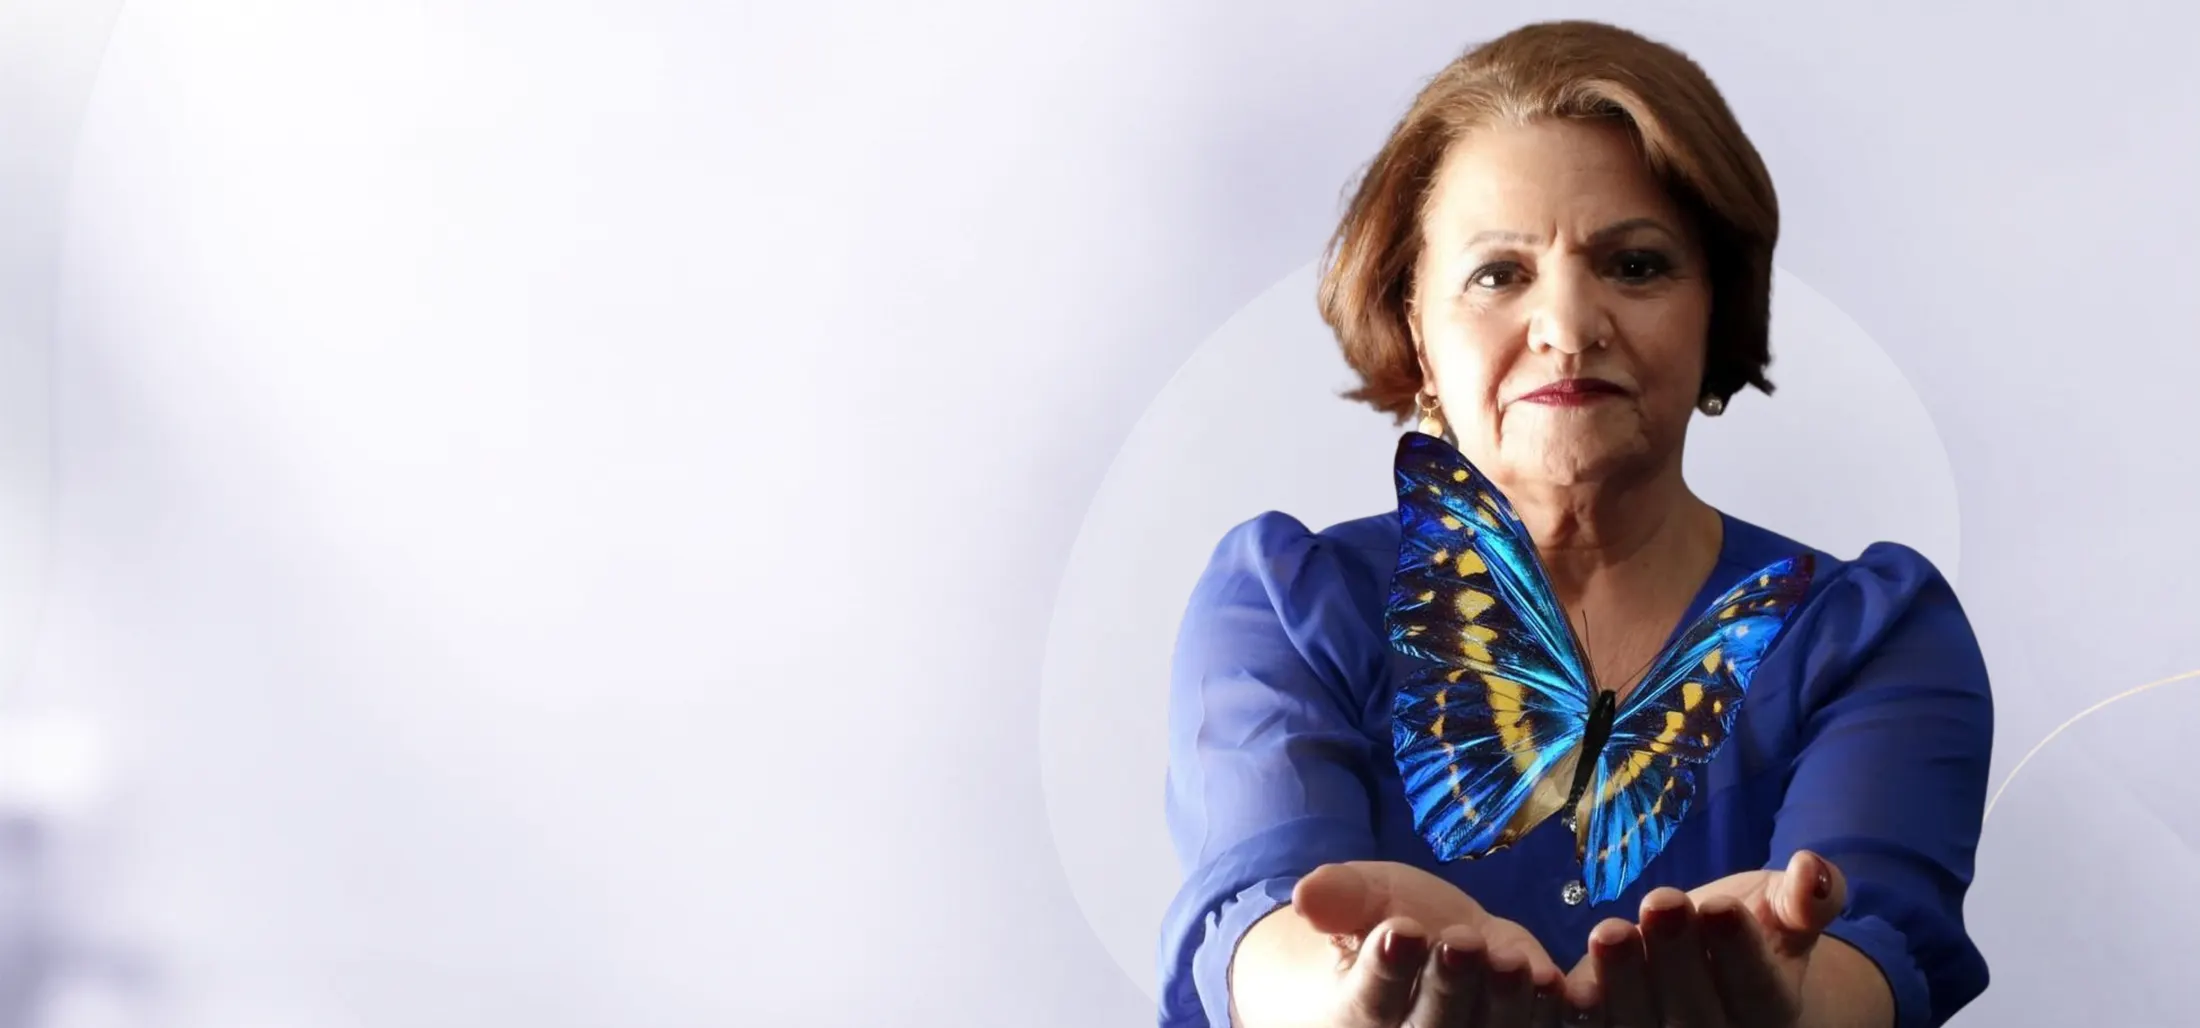
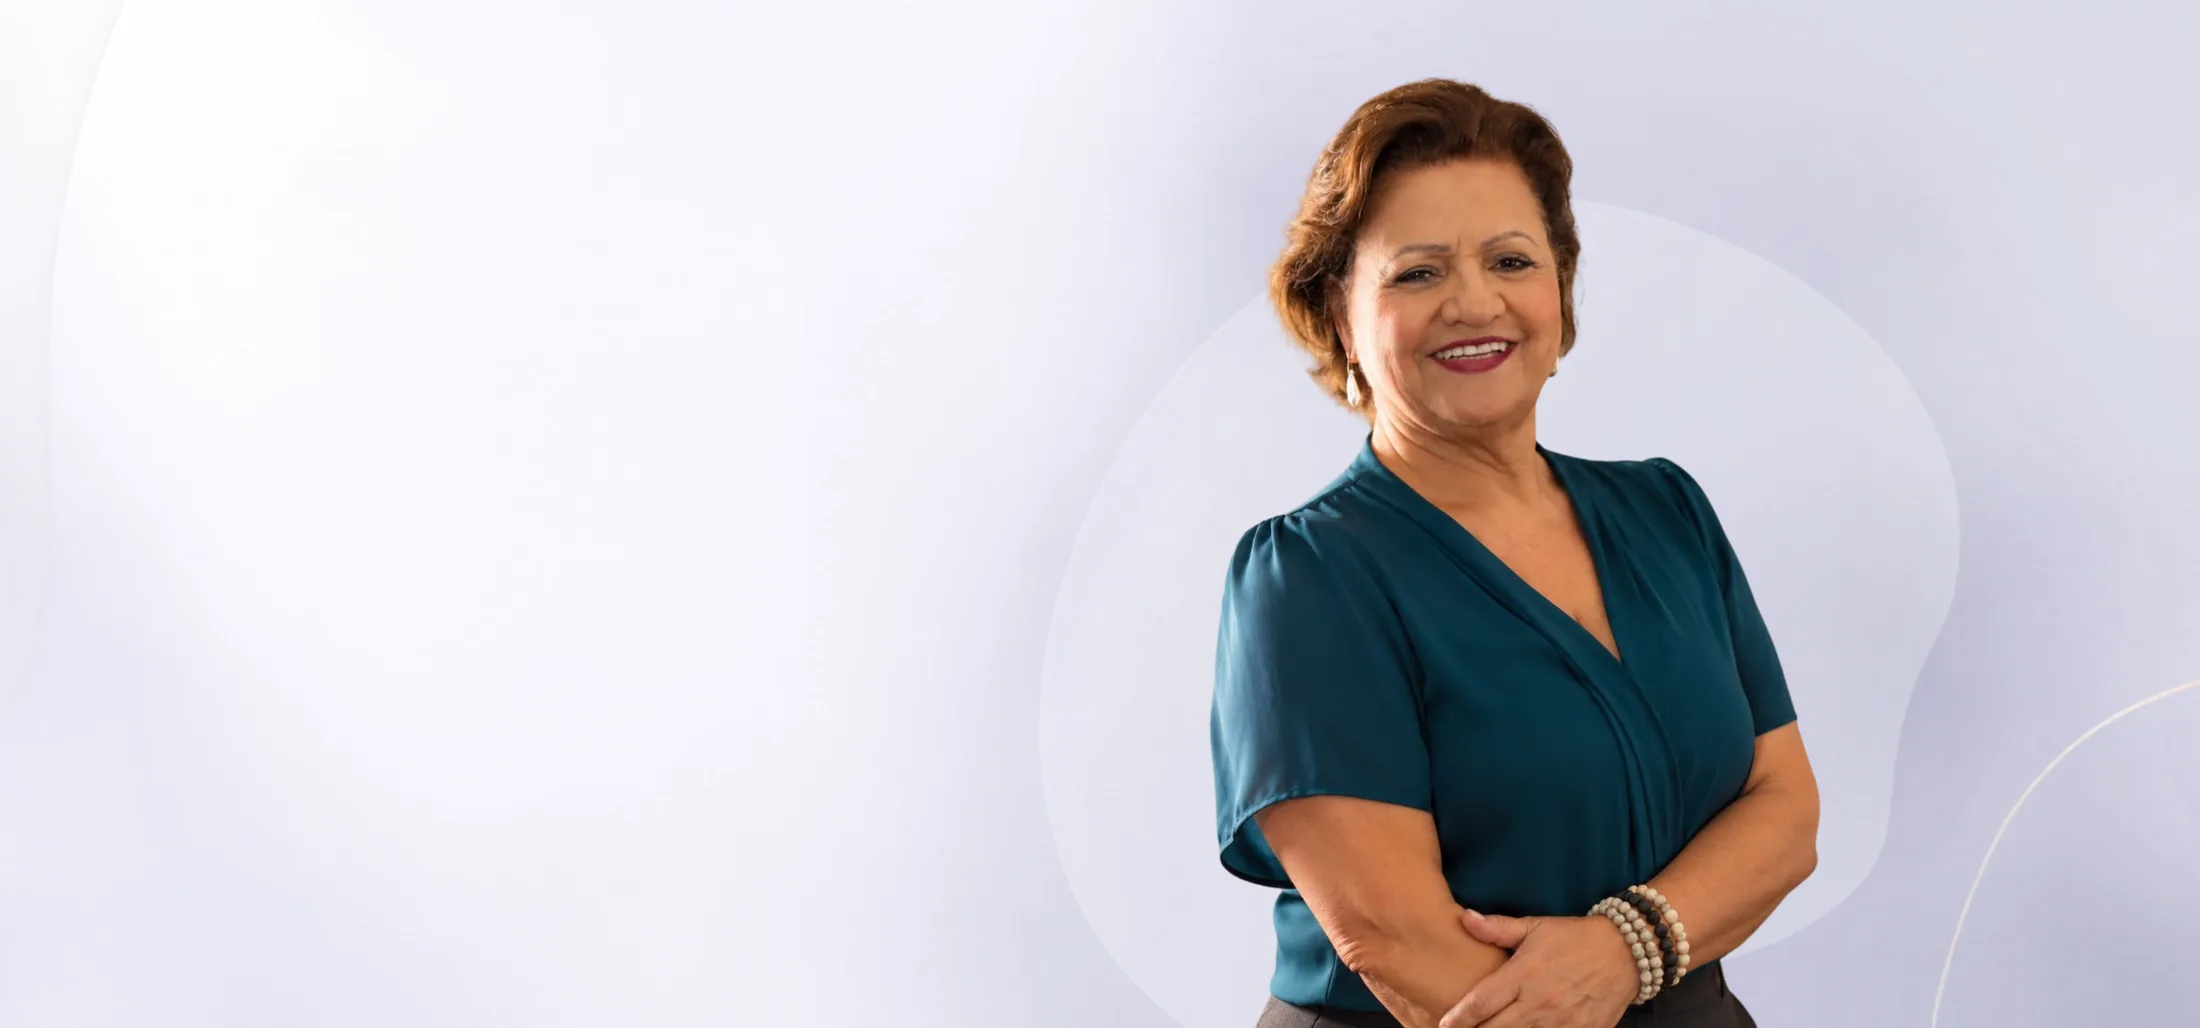
Atualiza foto da hero da Sandra (blusa verde-petróleo)
Troca as fotos antigas (blusa branca) pelas novas que ela mandou.
Aproveitei pra reverter a regressão de performance: os arquivos
anteriores eram PNG cru (5MB + 1MB) direto no HTML — voltei a usar
hero-bg-desktop.webp/hero-bg-mobile.webp devidamente comprimidos
(~37KB + ~33KB).

Changed region(s): [[0.5255, 0.0, 0.9273, 1.0], [0.0, 0.1868, 0.0618, 0.4358], [0.0, 0.7782, 0.0927, 1.0]]

diff --git a/index.html b/index.html
@@ -2490,8 +2490,8 @@ body{
 
 <section class="hero" id="hero">
   <picture class="hero-bg" aria-hidden="true">
-    <source media="(min-width:1024px)" srcset="images/sandra-hero-desktop-new.png">
-    <img src="images/sandra-hero-mobile-new.png" alt="">
+    <source media="(min-width:1024px)" srcset="images/hero-bg-desktop.webp">
+    <img src="images/hero-bg-mobile.webp" alt="">
   </picture>
   <div class="hero-overlay">
     <div class="container">
